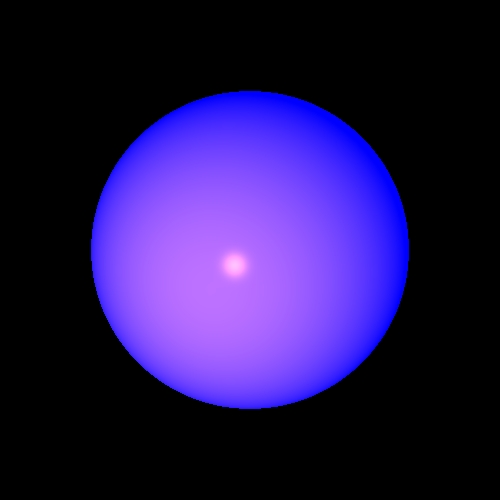
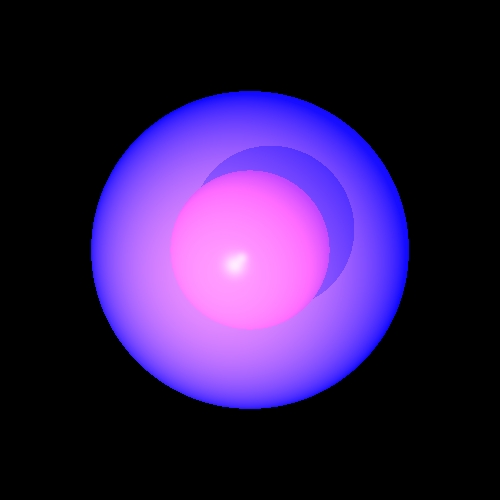
together 25/05/2020 11:50

Changed region(s): [[0.21, 0.18, 0.81, 0.78]]

diff --git a/src/renderer/Render.java b/src/renderer/Render.java
@@ -21,11 +21,6 @@ import static primitives.Util.alignZero;
  */
 public class Render {
     /**
-     * Constant for size of rays origin for shading, transparency and reflection
-     * in order to avoid the unwanted case of self-shadow
-     */
-    private static final double DELTA = 0.1;
-    /**
      *  The max recursion depth in calcColor
      */
     private static final int MAX_CALC_COLOR_LEVEL = 10;
@@ -96,28 +91,34 @@ public class Render {
 
     /**
      * Calculate the reflection ray from point
-     * @param ray ray to the point
+     * @param normal the normal of the geometry
      * @param rayPoint the intersection point
+     * @param ray ray to the point
      * @return new reflection ray
      */
     private Ray constructReflectedRay(Vector normal , Point3D rayPoint, Ray ray){
         Vector newVector = reflectionDirection(ray.get_direction(),normal);
-        Point3D newPoint = moveDelta(rayPoint,newVector,normal);
-        return new Ray(newPoint,newVector);
+        /*Point3D newPoint = moveDelta(rayPoint,newVector,normal);*/
+        return new Ray(rayPoint,newVector,normal);
     }
 
     /**
-     * Adding a delta to points on geometry in order to avoid from
-     * calculation mistakes
-     * @param p the point on the geometry
-     * @param n normal from the geometry
-     * @param v the vector that hit the geometry
-     * @return new point over the geometry
+     * construct new refracted ray after shift in delta
+     * @param normal the normal of the geometry
+     * @param rayPoint the intersection point
+     * @param ray ray hit the geometry
+     * @return new ray
      */
+    private Ray constructRefractedRay(Vector normal , Point3D rayPoint, Ray ray){
+
+        return new Ray(rayPoint,ray.get_direction(),normal);
+    }
+
+   /*
     private Point3D moveDelta (Point3D p ,Vector v, Vector n){
         Vector delta = n.scale(n.dotProduct(v) > 0 ? DELTA : - DELTA);
         return p.add(delta);
-    }
+    }*/
 
     /**
      * caculate reflected ray from the geometry
@@ -188,7 +189,7 @@ public class Render {
 
         double kt = material.getKt(), kkt = k * kt;
         if (kkt > MIN_CALC_COLOR_K) {
-            Ray refractedRay = constructReflectedRay(n ,gp._point, inRay) ;
+            Ray refractedRay = constructRefractedRay(n ,gp._point, inRay) ;
             GeoPoint refractedPoint = findClosestIntersection(refractedRay);
             if (refractedPoint != null)
                 color = color.add(calcColorRec(refractedPoint, refractedRay, level-1, kkt).scale(kt));}
@@ -266,17 +267,16 @@ public class Render {
      */
     private boolean unshaded(LightSource light ,Vector l, Vector n, GeoPoint gp){
         Vector lightDirection = l.scale(-1); // from point to light source
-        Point3D point = moveDelta(gp._point,lightDirection,n);
-        Ray lightRay = new Ray(point, lightDirection/*, n*/);
+        /*Point3D point = moveDelta(gp._point,lightDirection,n);*/
+        Ray lightRay = new Ray(gp._point, lightDirection, n);
 
-        List<GeoPoint> intersections = _scene.getGeometries().findIntersections(lightRay/*,light.getDistance(gp._point)*/);
-        /*return intersections == null;*/
+        List<GeoPoint> intersections = _scene.getGeometries().findIntersections(lightRay);
         if (intersections == null)
             return true;
         double lightDistance = light.getDistance(gp._point);
         for (GeoPoint geoPoint : intersections) {
             if (alignZero(geoPoint._point.distance(gp._point) - lightDistance) <= 0 &&
-                    geoPoint._geometry.getMaterial().getKt() == 0)
+                    geoPoint._geometry.getMaterial().getKt() == 0 )
                 return false;
         }
         return true;

diff --git a/src/primitives/Ray.java b/src/primitives/Ray.java
@@ -2,12 +2,19 @@ package primitives;
 
 import static primitives.Util.*;
 
+
 /**
  * Ray class represents a ray in 3D Cartesian coordinate system
  * by point and vector
  * @author Michael Bergshtein and Yishai Lutvak
  */
 public class Ray {
+    /**
+     * Constant for size of rays origin for shading, transparency and reflection
+     * in order to avoid the unwanted case of self-shadow
+     */
+    private static final double DELTA = 0.1;
+
     /**
      * The point from which the ray starts.
      */
@@ -34,6 +41,20 @@ public class Ray {
     public Ray(Ray ray) {
         this._start = new Point3D(ray._start);
         this._direction = ray._direction.normalized();
+    }
+
+    /**
+     * constructor
+     * Add a delta to points on geometry in order to avoid from
+     * calculation mistakes
+     * @param p the point on the geometry
+     * @param n normal from the geometry
+     * @param v the vector that hit the geometry
+     */
+    public Ray (Point3D p ,Vector v, Vector n){
+        Vector delta = n.scale(n.dotProduct(v) > 0 ? DELTA : - DELTA);
+        this._start =  p.add(delta);
+        this._direction = v.normalized();
     }
 
     /******************gettters****************/
